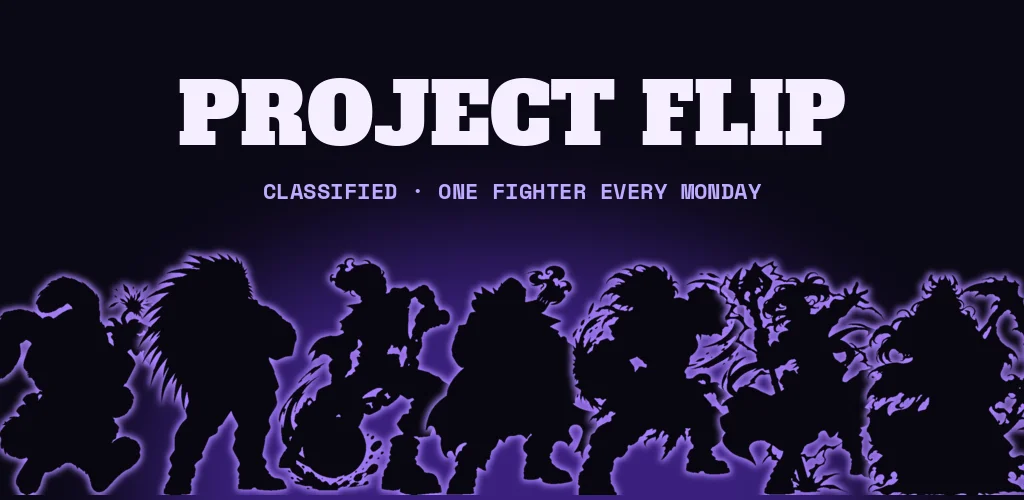
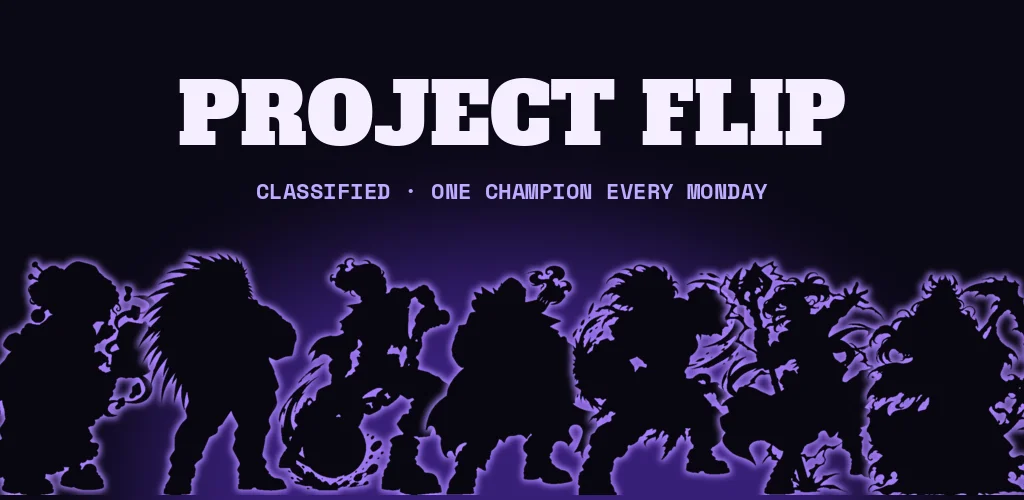
Project Flip: new intro text, Champions, a big centred ?, new No. 2 silhouette
Claude-Session: https://claude.ai/code/session_012jWvK5VipMzgFBFbsmZQMo

Changed region(s): [[0.0, 0.51, 0.1562, 0.99], [0.25, 0.36, 0.75, 0.42]]

diff --git a/flip/index.html b/flip/index.html
@@ -4,13 +4,13 @@
 <meta charset="utf-8">
 <meta name="viewport" content="width=device-width, initial-scale=1">
 <title>Project Flip — De-Evolution Studios</title>
-<meta name="description" content="Project Flip: a secret new game from De-Evolution Studios. One fighter steps out of the shadows every Monday. Alpha testers wanted.">
+<meta name="description" content="Project Flip: a secret new game from De-Evolution Studios. One Champion steps out of the shadows every Monday. Alpha testers wanted.">
 <link rel="canonical" href="https://deevolutionstudios.com/flip/">
 <meta property="og:type" content="website">
 <meta property="og:site_name" content="De-Evolution Studios">
 <meta property="og:title" content="Project Flip — De-Evolution Studios">
-<meta property="og:description" content="Project Flip: a secret new game from De-Evolution Studios. One fighter steps out of the shadows every Monday. Alpha testers wanted.">
-<meta property="og:image" content="https://deevolutionstudios.com/assets/img/flip/og.jpg?v=0abd2b09">
+<meta property="og:description" content="Project Flip: a secret new game from De-Evolution Studios. One Champion steps out of the shadows every Monday. Alpha testers wanted.">
+<meta property="og:image" content="https://deevolutionstudios.com/assets/img/flip/og.jpg?v=28345d13">
 <meta property="og:image:alt" content="Project Flip">
 <meta property="og:url" content="https://deevolutionstudios.com/flip/">
 <meta name="twitter:card" content="summary_large_image">
@@ -56,7 +56,9 @@ body{background:#0a0814}
 .pf-pic img{width:92%;height:auto;display:block;filter:drop-shadow(0 0 2px #a98bff) drop-shadow(0 0 14px rgba(150,110,255,.55))}
 .pf-out .pf-pic{background:radial-gradient(ellipse 70% 55% at 50% 70%,rgba(255,200,90,.35),transparent 70%)}
 .pf-out .pf-pic img{filter:drop-shadow(0 10px 18px rgba(0,0,0,.6))}
-.pf-q{position:absolute;top:14%;left:50%;transform:translateX(-50%);font-family:'Alfa Slab One',serif;font-size:3.4rem;color:rgba(220,205,255,.85);text-shadow:0 0 24px #7c4dff}
+.pf-pic{container-type:inline-size}
+.pf-lead a{color:#fff;text-decoration:underline;text-decoration-color:#7c4dff;text-underline-offset:4px}
+.pf-q{position:absolute;top:56%;left:50%;transform:translate(-50%,-50%);line-height:1;font-family:'Alfa Slab One',serif;font-size:min(13.6rem,76cqw);color:rgba(220,205,255,.85);text-shadow:0 0 24px #7c4dff}
 .pf-next{border-color:#7c4dff;box-shadow:0 0 0 1px #7c4dff,0 0 34px rgba(124,77,255,.35)}
 .pf-next .pf-q{animation:pfpulse 2.4s ease-in-out infinite}
 @keyframes pfpulse{50%{opacity:.35}}
@@ -85,26 +87,26 @@ body{background:#0a0814}
   <div class="pf-eyebrow">De-Evolution Studios · File 001</div>
   <div class="pf-stamp">CLASSIFIED</div>
   <h1>Project Flip</h1>
-  <p class="pf-lead">Something new is being dealt. We can't show you the game yet. What we can do is introduce the fighters, one at a time. Every Monday, another one steps out of the shadows.</p>
+  <p class="pf-lead">Something new is being dealt. We can't show you the game yet. What we can do is introduce our Champions. Every Monday, another one steps out of the shadows. Want to know more? <a href="#alpha">Sign up to be an Alpha Tester.</a></p>
 
-  <div class="pf-head"><h2>The roster</h2><div class="pf-count"><b>1</b> of 8 revealed</div></div>
+  <div class="pf-head"><h2>The Champions</h2><div class="pf-count"><b>1</b> of 8 revealed</div></div>
   <ul class="pf-roster"><li class="pf-card pf-out"><div class="pf-pic"><img src="/assets/img/flip/f-5c44ba965a.webp?v=e28e64cd" alt="Fritz" width="480" height="640" loading="lazy"></div>
   <div class="pf-cap"><span class="pf-num">No. 1</span><strong class="pf-name">Fritz</strong><span class="pf-fac">Storm</span><p>A marten who chews through cables for fun. Sparks follow him everywhere, and so does trouble.</p></div></li>
-<li class="pf-card pf-next"><div class="pf-pic"><img src="/assets/img/flip/shadow-2.webp?v=ced4abb3" alt="A fighter still in the shadows" width="480" height="640" loading="lazy"><span class="pf-q" aria-hidden="true">?</span></div>
+<li class="pf-card pf-next"><div class="pf-pic"><img src="/assets/img/flip/shadow-2.webp?v=1d51c946" alt="A Champion still in the shadows" width="480" height="640" loading="lazy"><span class="pf-q" aria-hidden="true">?</span></div>
   <div class="pf-cap"><span class="pf-num">No. 2</span><strong class="pf-name">???</strong><span class="pf-fac">Steps out Mon, Nov 30</span></div></li>
-<li class="pf-card"><div class="pf-pic"><img src="/assets/img/flip/shadow-3.webp?v=499e21c1" alt="A fighter still in the shadows" width="480" height="640" loading="lazy"><span class="pf-q" aria-hidden="true">?</span></div>
+<li class="pf-card"><div class="pf-pic"><img src="/assets/img/flip/shadow-3.webp?v=499e21c1" alt="A Champion still in the shadows" width="480" height="640" loading="lazy"><span class="pf-q" aria-hidden="true">?</span></div>
   <div class="pf-cap"><span class="pf-num">No. 3</span><strong class="pf-name">???</strong><span class="pf-fac">Steps out Mon, Dec 7</span></div></li>
-<li class="pf-card"><div class="pf-pic"><img src="/assets/img/flip/shadow-4.webp?v=f2f8c3e5" alt="A fighter still in the shadows" width="480" height="640" loading="lazy"><span class="pf-q" aria-hidden="true">?</span></div>
+<li class="pf-card"><div class="pf-pic"><img src="/assets/img/flip/shadow-4.webp?v=f2f8c3e5" alt="A Champion still in the shadows" width="480" height="640" loading="lazy"><span class="pf-q" aria-hidden="true">?</span></div>
   <div class="pf-cap"><span class="pf-num">No. 4</span><strong class="pf-name">???</strong><span class="pf-fac">Steps out Mon, Dec 14</span></div></li>
-<li class="pf-card"><div class="pf-pic"><img src="/assets/img/flip/shadow-5.webp?v=4de2c438" alt="A fighter still in the shadows" width="480" height="640" loading="lazy"><span class="pf-q" aria-hidden="true">?</span></div>
+<li class="pf-card"><div class="pf-pic"><img src="/assets/img/flip/shadow-5.webp?v=4de2c438" alt="A Champion still in the shadows" width="480" height="640" loading="lazy"><span class="pf-q" aria-hidden="true">?</span></div>
   <div class="pf-cap"><span class="pf-num">No. 5</span><strong class="pf-name">???</strong><span class="pf-fac">Steps out Mon, Dec 21</span></div></li>
-<li class="pf-card"><div class="pf-pic"><img src="/assets/img/flip/shadow-6.webp?v=0bf0732a" alt="A fighter still in the shadows" width="480" height="640" loading="lazy"><span class="pf-q" aria-hidden="true">?</span></div>
+<li class="pf-card"><div class="pf-pic"><img src="/assets/img/flip/shadow-6.webp?v=0bf0732a" alt="A Champion still in the shadows" width="480" height="640" loading="lazy"><span class="pf-q" aria-hidden="true">?</span></div>
   <div class="pf-cap"><span class="pf-num">No. 6</span><strong class="pf-name">???</strong><span class="pf-fac">Steps out Mon, Dec 28</span></div></li>
-<li class="pf-card"><div class="pf-pic"><img src="/assets/img/flip/shadow-7.webp?v=da73d004" alt="A fighter still in the shadows" width="480" height="640" loading="lazy"><span class="pf-q" aria-hidden="true">?</span></div>
+<li class="pf-card"><div class="pf-pic"><img src="/assets/img/flip/shadow-7.webp?v=da73d004" alt="A Champion still in the shadows" width="480" height="640" loading="lazy"><span class="pf-q" aria-hidden="true">?</span></div>
   <div class="pf-cap"><span class="pf-num">No. 7</span><strong class="pf-name">???</strong><span class="pf-fac">Steps out Mon, Jan 4</span></div></li>
-<li class="pf-card"><div class="pf-pic"><img src="/assets/img/flip/shadow-8.webp?v=6f4bb799" alt="A fighter still in the shadows" width="480" height="640" loading="lazy"><span class="pf-q" aria-hidden="true">?</span></div>
+<li class="pf-card"><div class="pf-pic"><img src="/assets/img/flip/shadow-8.webp?v=6f4bb799" alt="A Champion still in the shadows" width="480" height="640" loading="lazy"><span class="pf-q" aria-hidden="true">?</span></div>
   <div class="pf-cap"><span class="pf-num">No. 8</span><strong class="pf-name">???</strong><span class="pf-fac">Steps out Mon, Jan 11</span></div></li></ul>
-  <div class="pf-timer" id="pfTimer" data-at="2026-11-30T09:00:00+01:00">Next fighter steps out Mon, Nov 30<b id="pfLeft"></b></div>
+  <div class="pf-timer" id="pfTimer" data-at="2026-11-30T09:00:00+01:00">Next Champion steps out Mon, Nov 30<b id="pfLeft"></b></div>
 
   <div class="pf-alpha" id="alpha">
     <h2>Join the alpha</h2>
@@ -117,7 +119,7 @@ body{background:#0a0814}
       <button type="submit" class="form-submit">Count me in →</button>
       <p class="form-note">We'll email you when the alpha opens, and news when our games launch; you can unsubscribe at any time. Your sign-up is kept in our mailing list at MailerLite; see our <a href="/privacy/#testers">privacy notice</a>.</p>
     </form>
-    <div class="form-success" id="testerSuccess" tabindex="-1" role="status"><h3>You're on the list.</h3><p>Check your inbox and tap the button in our email to confirm. Then keep an eye on this page: a new fighter steps out every Monday.</p></div>
+    <div class="form-success" id="testerSuccess" tabindex="-1" role="status"><h3>You're on the list.</h3><p>Check your inbox and tap the button in our email to confirm. Then keep an eye on this page: a new Champion steps out every Monday.</p></div>
   </div>
 </div></section>
 <script>(function(){var t=document.getElementById('pfTimer'),o=document.getElementById('pfLeft');if(!t||!o)return;var at=new Date(t.dataset.at).getTime();

diff --git a/tools/build.js b/tools/build.js
@@ -223,8 +223,8 @@ function flipCard() {
   <a class="app-visual" href="/flip/" tabindex="-1" aria-hidden="true"><img src="/assets/img/flip/feature.webp" alt="Project Flip" width="1024" height="500" loading="lazy"></a>
   <div class="app-body">
     <div class="app-top"><img class="app-icon" src="/assets/img/flip/icon.webp" alt="" width="64" height="64" loading="lazy"><div><span class="app-type">Mobile game · Top secret</span><a class="app-name" href="/flip/">Project Flip</a></div></div>
-    <p class="app-tag">A new game we can't talk about yet. One fighter steps out of the shadows every Monday. Alpha testers wanted.</p>
-    <div class="app-links"><a href="/flip/">Meet the fighters</a><a href="/flip/#alpha">Join the alpha</a></div>
+    <p class="app-tag">A new game we can't talk about yet. One Champion steps out of the shadows every Monday. Alpha testers wanted.</p>
+    <div class="app-links"><a href="/flip/">Meet the Champions</a><a href="/flip/#alpha">Join the alpha</a></div>
   </div>
 </article>`;
 }
@@ -332,7 +332,7 @@ write('/work/', layout({
       <button class="filter-btn" data-filter="client" aria-pressed="false">Client Work</button>
     </div>
     <div class="port-grid">
-      ${projectCard({ slug: 'flip', name: 'Project Flip', type: 'mobile', label: 'Mobile Game', kind: 'Mobile Game · Top secret', img: 'flip/cover', tag: 'A new game we can\u2019t talk about yet. One fighter steps out of the shadows every Monday.' })}
+      ${projectCard({ slug: 'flip', name: 'Project Flip', type: 'mobile', label: 'Mobile Game', kind: 'Mobile Game · Top secret', img: 'flip/cover', tag: 'A new game we can\u2019t talk about yet. One Champion steps out of the shadows every Monday.' })}
       ${PROJECTS.slice(0, 4).map(p => projectCard(p)).join('\n')}
       ${projectCard({ slug: 'colorwise', name: 'Colorwise', type: 'mobile', label: 'Mobile Game', kind: 'Mobile Game · Coming soon', img: 'colorwise/icon', tag: 'Word or hue? Beat the beat. A neon rhythm game of colors that lie.' })}
       ${PROJECTS.slice(4).map(p => projectCard(p)).join('\n')}
@@ -738,12 +738,12 @@ Testing is free, and you can stop at any time.</p>
     const f = shown.get(n);
     return f ? `<li class="pf-card pf-out"><div class="pf-pic"><img src="/assets/img/flip/${f.file}.webp" alt="${esc(f.name)}" width="480" height="640" loading="lazy"></div>
   <div class="pf-cap"><span class="pf-num">No. ${n}</span><strong class="pf-name">${esc(f.name)}</strong><span class="pf-fac">${esc(f.faction)}</span><p>${esc(f.line)}</p></div></li>`
-      : `<li class="pf-card${n === next ? ' pf-next' : ''}"><div class="pf-pic"><img src="/assets/img/flip/shadow-${n}.webp" alt="A fighter still in the shadows" width="480" height="640" loading="lazy"><span class="pf-q" aria-hidden="true">?</span></div>
+      : `<li class="pf-card${n === next ? ' pf-next' : ''}"><div class="pf-pic"><img src="/assets/img/flip/shadow-${n}.webp" alt="A Champion still in the shadows" width="480" height="640" loading="lazy"><span class="pf-q" aria-hidden="true">?</span></div>
   <div class="pf-cap"><span class="pf-num">No. ${n}</span><strong class="pf-name">???</strong><span class="pf-fac">Steps out ${when(n)}</span></div></li>`;
   };
   write('/flip/', layout({
     url: '/flip/', title: 'Project Flip',
-    description: 'Project Flip: a secret new game from De-Evolution Studios. One fighter steps out of the shadows every Monday. Alpha testers wanted.',
+    description: 'Project Flip: a secret new game from De-Evolution Studios. One Champion steps out of the shadows every Monday. Alpha testers wanted.',
     image: '/assets/img/flip/og.jpg',
     body: `<style>
 body{background:#0a0814}
@@ -763,7 +763,9 @@ body{background:#0a0814}
 .pf-pic img{width:92%;height:auto;display:block;filter:drop-shadow(0 0 2px #a98bff) drop-shadow(0 0 14px rgba(150,110,255,.55))}
 .pf-out .pf-pic{background:radial-gradient(ellipse 70% 55% at 50% 70%,rgba(255,200,90,.35),transparent 70%)}
 .pf-out .pf-pic img{filter:drop-shadow(0 10px 18px rgba(0,0,0,.6))}
-.pf-q{position:absolute;top:14%;left:50%;transform:translateX(-50%);font-family:'Alfa Slab One',serif;font-size:3.4rem;color:rgba(220,205,255,.85);text-shadow:0 0 24px #7c4dff}
+.pf-pic{container-type:inline-size}
+.pf-lead a{color:#fff;text-decoration:underline;text-decoration-color:#7c4dff;text-underline-offset:4px}
+.pf-q{position:absolute;top:56%;left:50%;transform:translate(-50%,-50%);line-height:1;font-family:'Alfa Slab One',serif;font-size:min(13.6rem,76cqw);color:rgba(220,205,255,.85);text-shadow:0 0 24px #7c4dff}
 .pf-next{border-color:#7c4dff;box-shadow:0 0 0 1px #7c4dff,0 0 34px rgba(124,77,255,.35)}
 .pf-next .pf-q{animation:pfpulse 2.4s ease-in-out infinite}
 @keyframes pfpulse{50%{opacity:.35}}
@@ -792,11 +794,11 @@ body{background:#0a0814}
   <div class="pf-eyebrow">De-Evolution Studios · File 001</div>
   <div class="pf-stamp">CLASSIFIED</div>
   <h1>Project Flip</h1>
-  <p class="pf-lead">Something new is being dealt. We can't show you the game yet. What we can do is introduce the fighters, one at a time. Every Monday, another one steps out of the shadows.</p>
+  <p class="pf-lead">Something new is being dealt. We can't show you the game yet. What we can do is introduce our Champions. Every Monday, another one steps out of the shadows. Want to know more? <a href="#alpha">Sign up to be an Alpha Tester.</a></p>
 
-  <div class="pf-head"><h2>The roster</h2><div class="pf-count"><b>${shown.size}</b> of ${FLIP.total} revealed</div></div>
+  <div class="pf-head"><h2>The Champions</h2><div class="pf-count"><b>${shown.size}</b> of ${FLIP.total} revealed</div></div>
   <ul class="pf-roster">${Array.from({ length: FLIP.total }, (_, i) => card(i + 1)).join('\n')}</ul>
-  ${next ? `<div class="pf-timer" id="pfTimer" data-at="${nextIso}">Next fighter steps out ${when(next)}<b id="pfLeft"></b></div>` : ''}
+  ${next ? `<div class="pf-timer" id="pfTimer" data-at="${nextIso}">Next Champion steps out ${when(next)}<b id="pfLeft"></b></div>` : ''}
 
   <div class="pf-alpha" id="alpha">
     <h2>Join the alpha</h2>
@@ -809,7 +811,7 @@ body{background:#0a0814}
       <button type="submit" class="form-submit">Count me in →</button>
       <p class="form-note">We'll email you when the alpha opens, and news when our games launch; you can unsubscribe at any time. Your sign-up is kept in our mailing list at MailerLite; see our <a href="/privacy/#testers">privacy notice</a>.</p>
     </form>
-    <div class="form-success" id="testerSuccess" tabindex="-1" role="status"><h3>You're on the list.</h3><p>Check your inbox and tap the button in our email to confirm. Then keep an eye on this page: a new fighter steps out every Monday.</p></div>
+    <div class="form-success" id="testerSuccess" tabindex="-1" role="status"><h3>You're on the list.</h3><p>Check your inbox and tap the button in our email to confirm. Then keep an eye on this page: a new Champion steps out every Monday.</p></div>
   </div>
 </div></section>
 <script>(function(){var t=document.getElementById('pfTimer'),o=document.getElementById('pfLeft');if(!t||!o)return;var at=new Date(t.dataset.at).getTime();

diff --git a/index.html b/index.html
@@ -114,11 +114,11 @@
   </div>
 </article>
 <article class="app-card fu">
-  <a class="app-visual" href="/flip/" tabindex="-1" aria-hidden="true"><img src="/assets/img/flip/feature.webp?v=2c30260b" alt="Project Flip" width="1024" height="500" loading="lazy"></a>
+  <a class="app-visual" href="/flip/" tabindex="-1" aria-hidden="true"><img src="/assets/img/flip/feature.webp?v=2aeeec80" alt="Project Flip" width="1024" height="500" loading="lazy"></a>
   <div class="app-body">
     <div class="app-top"><img class="app-icon" src="/assets/img/flip/icon.webp?v=39b2f9dc" alt="" width="64" height="64" loading="lazy"><div><span class="app-type">Mobile game · Top secret</span><a class="app-name" href="/flip/">Project Flip</a></div></div>
-    <p class="app-tag">A new game we can't talk about yet. One fighter steps out of the shadows every Monday. Alpha testers wanted.</p>
-    <div class="app-links"><a href="/flip/">Meet the fighters</a><a href="/flip/#alpha">Join the alpha</a></div>
+    <p class="app-tag">A new game we can't talk about yet. One Champion steps out of the shadows every Monday. Alpha testers wanted.</p>
+    <div class="app-links"><a href="/flip/">Meet the Champions</a><a href="/flip/#alpha">Join the alpha</a></div>
   </div>
 </article>
 <article class="app-card fu">

diff --git a/work/index.html b/work/index.html
@@ -63,7 +63,7 @@
       <a href="/flip/" class="g-card fu" data-type="mobile">
   <div class="g-visual"><img src="/assets/img/flip/cover.webp?v=d6eaa386" sizes="(max-width:760px) 46vw, 300px" alt="" loading="lazy">
     <span class="g-badge mobile">Mobile Game</span></div>
-  <div class="g-body"><span class="g-type">Mobile Game · Top secret</span><span class="g-title">Project Flip</span><span class="g-tag">A new game we can’t talk about yet. One fighter steps out of the shadows every Monday.</span><span class="g-cta">View Project</span></div>
+  <div class="g-body"><span class="g-type">Mobile Game · Top secret</span><span class="g-title">Project Flip</span><span class="g-tag">A new game we can’t talk about yet. One Champion steps out of the shadows every Monday.</span><span class="g-cta">View Project</span></div>
 </a>
       <a href="/elementra/" class="g-card fu" data-type="mobile">
   <div class="g-visual"><img src="/assets/img/elementra/cover.webp?v=88387c2e" srcset="/assets/img/elementra/cover-450.webp?v=9f908f3d 450w, /assets/img/elementra/cover-600.webp?v=6603ee27 600w, /assets/img/elementra/cover.webp?v=88387c2e 900w" sizes="(max-width:760px) 46vw, 300px" alt="" loading="lazy">
